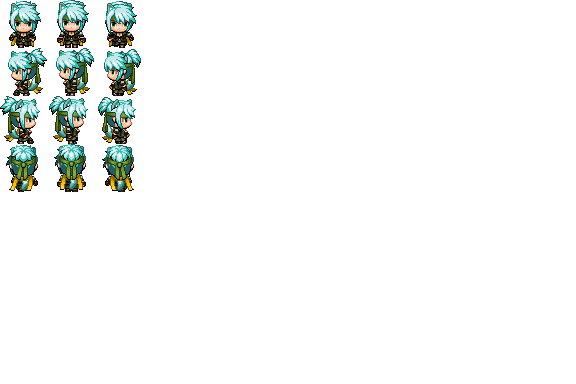
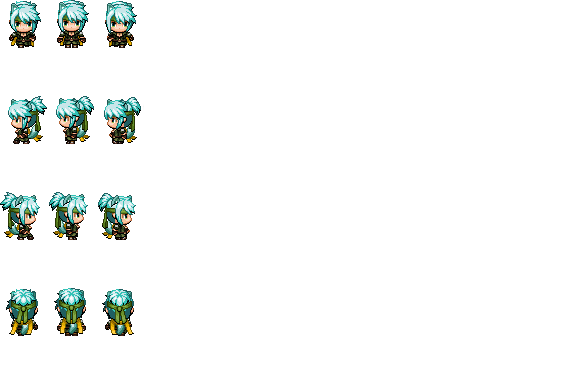
Fix bug with animationFrame not cancelling

Changed region(s): [[0.0, 0.125, 0.25, 0.625], [0.0938, 0.75, 0.25, 0.875], [0.0, 0.75, 0.0625, 0.875]]

diff --git a/src/scripts/utils/func_utils.js b/src/scripts/utils/func_utils.js
@@ -1,6 +1,19 @@
 import * as Global from "./global_vars";
 import Wall from "../wall";
 import Room from "../room";
+import Game from "../game";
+
+export const newGame = () => {
+  if (Global.SESSION.game) {
+    Global.SESSION.game.stop();
+    delete Global.SESSION.game;
+    delete Global.SESSION.player;
+    for (let room in Global.ROOMS) {
+      delete Global.ROOMS[room];
+    };
+  }
+  new Game(...Object.values(Global.GAME_OPTIONS));
+}
 
 export const collidedWithSide = (side, thisSide, otherSide) => {
   let collided = false;
@@ -104,17 +117,17 @@ export const roomChange = (exitDir, currRoom) => {
 export const randNumPaths = max => {
   let paths = [];
   if (max > 3) {
-    for (let i = 0; i < 60; i++) { paths.push(4) }
-    for (let i = 0; i < 30; i++) { paths.push(3) }
-    for (let i = 0; i < 9; i++) { paths.push(2) }
-    for (let i = 0; i < 1; i++) { paths.push(1) }
+    for (let i = 0; i < Global.WEIGHTS[max][4]; i++) { paths.push(4) }
+    for (let i = 0; i < Global.WEIGHTS[max][3]; i++) { paths.push(3) }
+    for (let i = 0; i < Global.WEIGHTS[max][2]; i++) { paths.push(2) }
+    for (let i = 0; i < Global.WEIGHTS[max][1]; i++) { paths.push(1) }
   } else if (max > 2) {
-    for (let i = 0; i < 70; i++) { paths.push(3) }
-    for (let i = 0; i < 25; i++) { paths.push(2) }
-    for (let i = 0; i < 5; i++) { paths.push(1) }
+    for (let i = 0; i < Global.WEIGHTS[max][3]; i++) { paths.push(3) }
+    for (let i = 0; i < Global.WEIGHTS[max][2]; i++) { paths.push(2) }
+    for (let i = 0; i < Global.WEIGHTS[max][1]; i++) { paths.push(1) }
   } else if (max > 1) {
-    for (let i = 0; i < 60; i++) { paths.push(2) }
-    for (let i = 0; i < 40; i++) { paths.push(1) }
+    for (let i = 0; i < Global.WEIGHTS[max][2]; i++) { paths.push(2) }
+    for (let i = 0; i < Global.WEIGHTS[max][1]; i++) { paths.push(1) }
   } else {
     paths.push(1);
   }

diff --git a/src/scripts/player.js b/src/scripts/player.js
@@ -6,14 +6,15 @@ class Player extends Entity {
   constructor(pos,width,height,spritePalette) {
     
     super(pos,width,height,spritePalette);
-    this.speed = 2;
+    this.pos = pos;
+    this.speed = 1;
     this.normalizedSpeed = parseFloat(this.speed) / Math.sqrt(2);
     this.pace = 24/this.speed;
     this.speedModifier = 1;
     this.stride = {
       up: {
         stepCount: 0,
-        palY: 48 * 3,
+        palY: 48 * 6,
       },
       down: {
         stepCount: 0,
@@ -21,11 +22,11 @@ class Player extends Entity {
       },
       left: {
         stepCount: 0,
-        palY: 48 * 1,
+        palY: 48 * 2,
       },
       right: {
         stepCount: 0,
-        palY: 48 * 2,
+        palY: 48 * 4,
       },
     };
   }
@@ -87,6 +88,8 @@ class Player extends Entity {
       this.speedModifier = 1;
     }
 
+    
+
     // W key movements and sprite direction
     if (up) {
       if (left || right) {
@@ -108,7 +111,10 @@ class Player extends Entity {
         }
       }
       this.drawOptions.palY = this.stride.up.palY;
-      this.drawOptions.palX = this.stridePalettePos("up");
+      if (!left && !right) {
+        this.drawOptions.palX = this.stridePalettePos("up");
+        
+      }
     }
 
     // S key movements and sprite direction
@@ -133,7 +139,9 @@ class Player extends Entity {
         }
       }
       this.drawOptions.palY = this.stride.down.palY;
-      this.drawOptions.palX = this.stridePalettePos("down");
+      if (!left && !right) {
+        this.drawOptions.palX = this.stridePalettePos("down");
+      }
     }
 
     // A key movement

diff --git a/src/scripts/game.js b/src/scripts/game.js
@@ -6,23 +6,44 @@ class Game {
   constructor(ctx, playerSprite) {
     const startingPos = [48*7, 48*7];
     this.player = new Player(startingPos, ...Global.SPRITE_DIMS, playerSprite);
+    Global.SESSION.player = this.player;
     this.ctx = ctx;
     // const room = { "left": new Room() }; // testing new Room(room)
     this.startingRoom = new Room();
     this.room = this.startingRoom;
-    Global.ROOMS[`${this.startingRoom.nodePos}`] = this.startingRoom;
     this.player.draw(ctx);
     Global.SESSION.game = this;
+    Global.SESSION.stop = false;
+    this.gameStep = this.gameStep.bind(this);
+    this.stop = this.stop.bind(this);
+    Global.SESSION.game.play();
+  }
+
+  stop() {
+    if (this.requestId) {
+      this.requestStop = true;
+    }
+  }
+
+  gameStep() {
+    this.requestId = undefined;
+    if (!this.requestId) {
+      const player = Global.SESSION.player;
+      this.ctx.clearRect(0,0, Global.WIDTH, Global.HEIGHT);
+      player.move(this.room.objects);
+      this.room.draw(this.ctx);
+      player.draw(this.ctx);
+      this.requestId = requestAnimationFrame(this.gameStep);
+      if (this.requestStop) {
+        cancelAnimationFrame(this.requestId);
+        return;
+      }
+    }
   }
 
   play() {
-    const that = this;
-    setInterval(() => {
-      that.ctx.clearRect(0,0, Global.WIDTH, Global.HEIGHT);
-      that.player.move(that.room.objects);
-      that.room.draw(that.ctx);
-      that.player.draw(that.ctx);
-    }, Global.FPS)
+    this.gameStep();
+    requestAnimationFrame(this.gameStep);
   }
 }
 

diff --git a/src/scripts/room.js b/src/scripts/room.js
@@ -12,15 +12,6 @@ import {
 class Room {
   constructor(neighbor) {
     this.objects = [];
-    // this.objects.push(new Wall([0,0], 48*6, 48));
-    // this.objects.push(new Wall([48*9,0], 48*6, 48));
-    // this.objects.push(new Wall([48*9,720-48], 48*6, 48));
-    // this.objects.push(new Wall([0,720-48], 48*6, 48));
-    // this.objects.push(new Wall([0,0], 48, 48*6));
-    // this.objects.push(new Wall([0,48*9], 48, 48*6));
-    // this.objects.push(new Wall([720-48,0], 48, 48*6));
-    // this.objects.push(new Wall([720-48,48*9], 48, 48*6));
-    
     this.neighbors = {
       up: undefined,
       down: undefined,
@@ -86,13 +77,16 @@ class Room {
       if (numPaths === paths.length) {
         walls = buildRoomWalls(paths);
         this.objects.push(...walls);
+        Global.ROOMS[`${this.nodePos}`];
       } else {
         shuffle(pathsArr);
         for (let i = 0; i < numPaths; i++) { newPaths.push(pathsArr.pop()) }
         newPaths = newPaths.sort().join("");
         assignBlockedPaths(this, newPaths);
         walls = buildRoomWalls(newPaths);
+        
         this.objects.push(...walls);
+        Global.ROOMS[`${this.nodePos}`];
       }
     }
     

diff --git a/src/scripts/utils/global_vars.js b/src/scripts/utils/global_vars.js
@@ -13,61 +13,23 @@ export const ROOMS = {};
 
 export const SESSION = {};
 
-export const POSSIBLE_PATHS = {
-  "up":{
-    "1": "U",
-    "2": [
-      "UL",
-      "UD",
-      "UR",
-    ],
-    "3": [
-      "ULD",
-      "ULR",
-      "UDR",
-    ],
-    "4": "ULDR",
+export const WEIGHTS = {
+  4: {
+    4: 45,
+    3: 45,
+    2: 9,
+    1: 1,
   },
-  "down": {
-    "1": "D",
-    "2": [
-      "LD",
-      "UD",
-      "DR",
-    ],
-    "3": [
-      "ULD",
-      "LDR",
-      "UDR",
-    ],
-    "4": "ULDR",
+  3: {
+    3: 70,
+    2: 25,
+    1: 5,
   },
-  "left": {
-    "1": "L",
-    "2": [
-      "UL",
-      "LD",
-      "LR",
-    ],
-    "3": [
-      "ULD",
-      "ULR",
-      "LDR",
-    ],
-    "4": "ULDR",
-  },
-  "right": {
-    "1": "R",
-    "2": [
-      "LR",
-      "DR",
-      "UR",
-    ],
-    "3": [
-      "LDR",
-      "ULR",
-      "UDR",
-    ],
-    "4": "ULDR",
+  2: {
+    2: 60,
+    1: 40,
   },
 };
+
+export const GAME_OPTIONS = {};
+export const REQUEST = {};

diff --git a/src/index.js b/src/index.js
@@ -2,6 +2,7 @@ import "./styles/index.scss";
 import Game from "./scripts/game";
 import installListeners from "./scripts/utils/install_listeners";
 import * as Global from "./scripts/utils/global_vars";
+import { newGame } from "./scripts/utils/func_utils";
 
 
 
@@ -18,8 +19,9 @@ document.addEventListener("DOMContentLoaded", () => {
   playerSprite.src = "../src/assets/images/rogue/rogue_walk.png";
   
   playerSprite.onload = () => {
-    new Game(ctx, playerSprite);
-    Global.SESSION.game.play();
+    Global.GAME_OPTIONS["ctx"] = ctx;
+    Global.GAME_OPTIONS["playerSprite"] = playerSprite;
+    newGame();
   }
 
 });

diff --git a/src/scripts/utils/install_listeners.js b/src/scripts/utils/install_listeners.js
@@ -1,4 +1,6 @@
 import * as Global from "./global_vars";
+import Game from "../game";
+import { newGame } from "../utils/func_utils";
 
 export default (KEYS) => {
   document.addEventListener("keydown", e => {
@@ -41,8 +43,9 @@ export default (KEYS) => {
     document.getElementById("restart").classList.remove("active");
     document.getElementById("restart-pointer").classList.remove("active");
   });
-  restart.addEventListener("click", () => {
-    location.reload();
+  restart.addEventListener("click", e => {
+    e.preventDefault();
+    newGame();
   });
 
 }

diff --git a/src/styles/header.scss b/src/styles/header.scss
@@ -60,6 +60,9 @@
     #restart {
       margin-bottom: 10px;
       font-size: 20px;
+      outline: none;
+
+      
       &.active {
         color: $restart-color;
         cursor: pointer;
